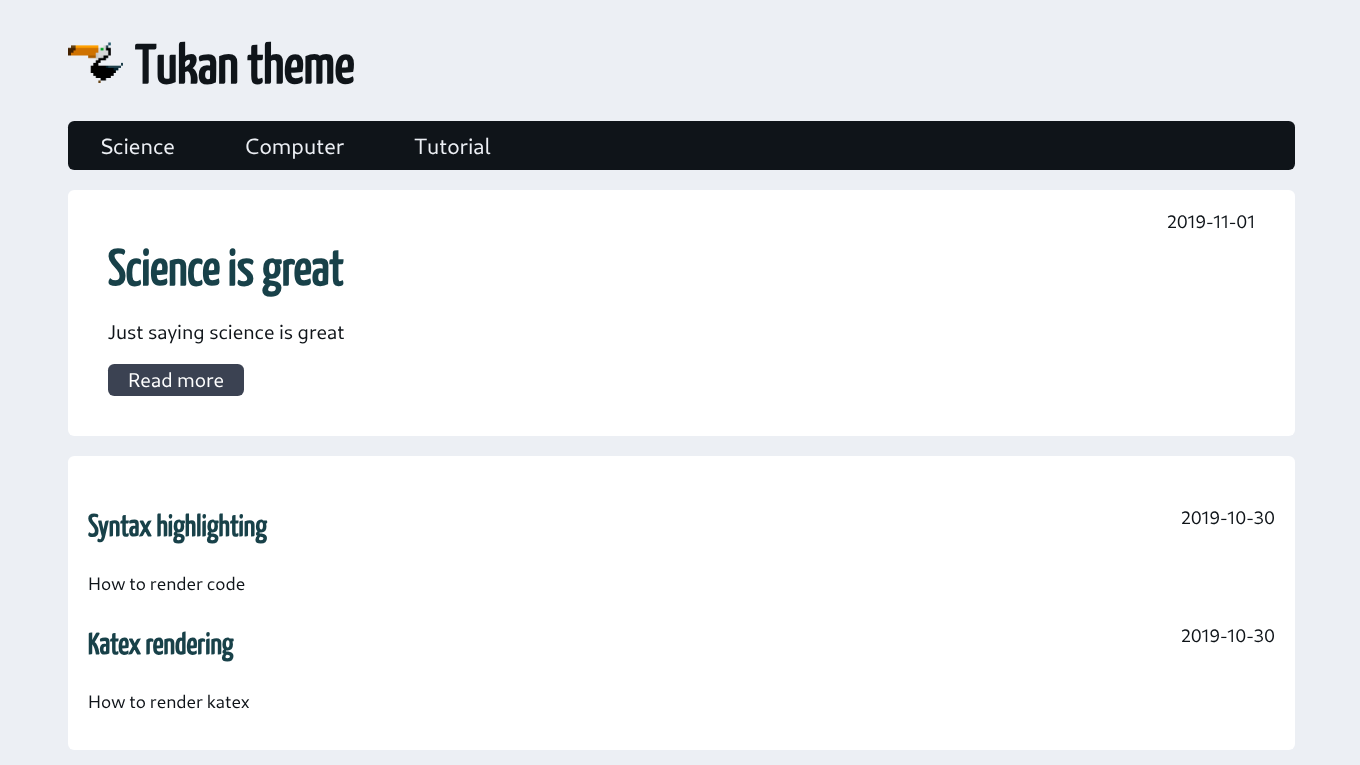
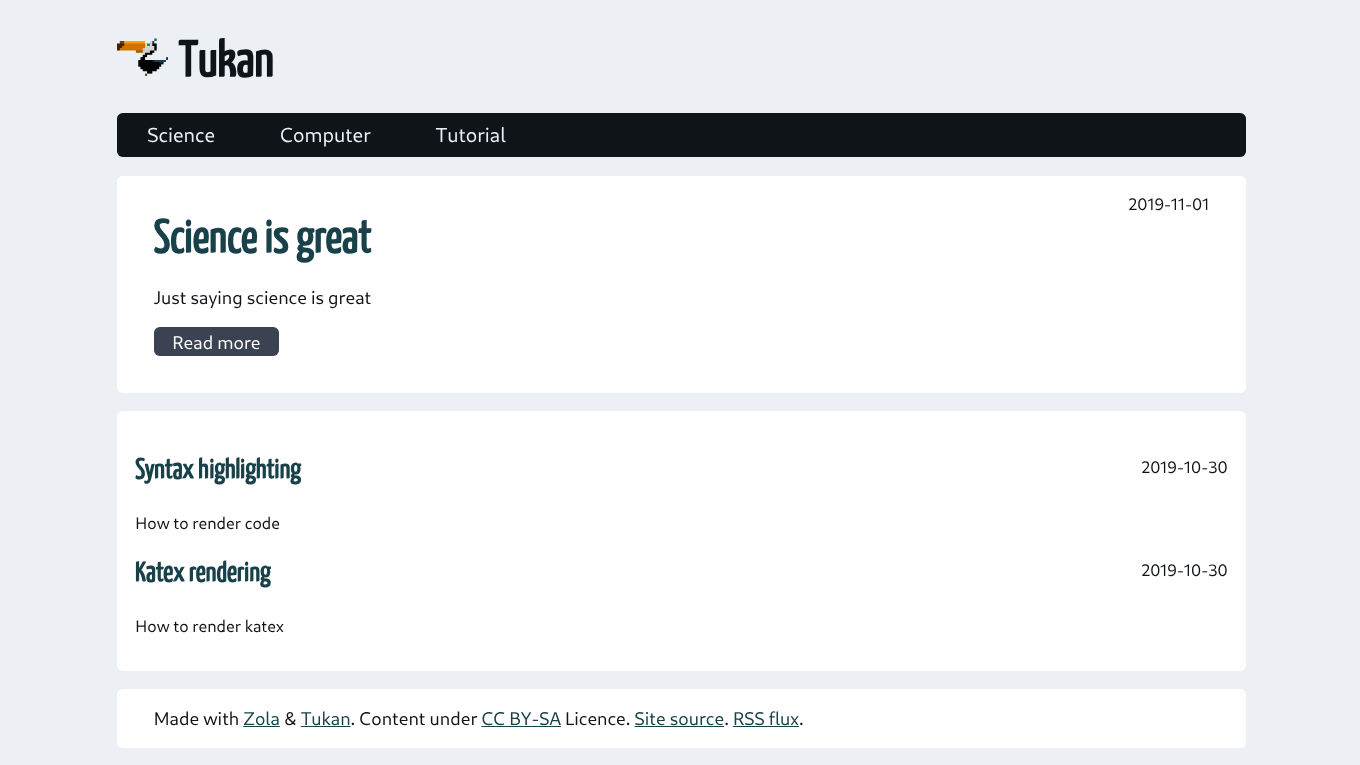
Update screenshot (#9)

diff --git a/README.md b/README.md
@@ -31,7 +31,7 @@ generate_feeds = true
 
 [extra]
 title_pic = "/favicon.ico"
-copyright = """Content under <a href="https://creativecommons.org/licenses/by-sa/4.0/">CC BY-SA</a> Licence"""
+copyright = """Content under <a href="https://creativecommons.org/licenses/by-sa/4.0/">CC BY-SA</a> Licence."""
 site_source = "https://github.com/example/example"
 ```
 
